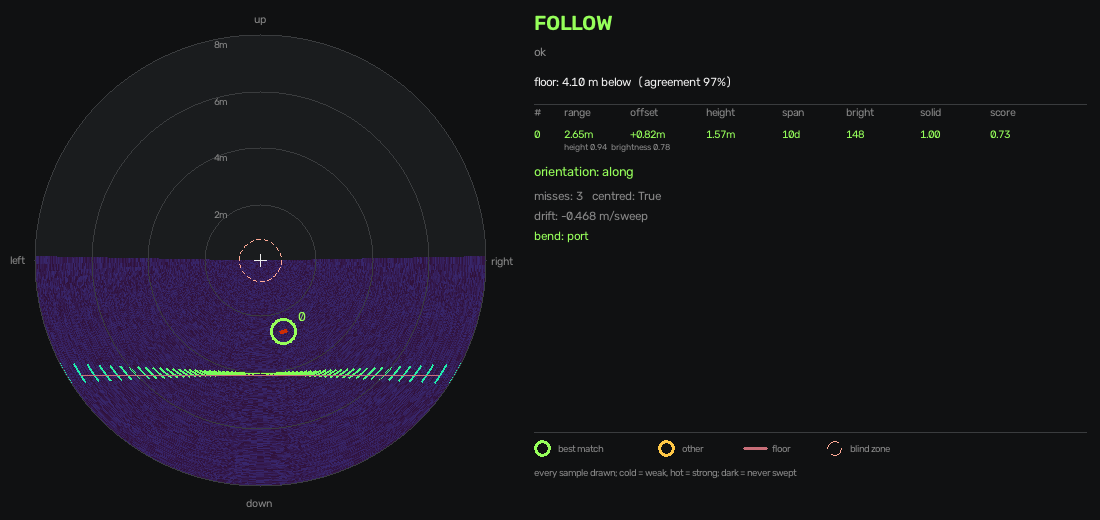
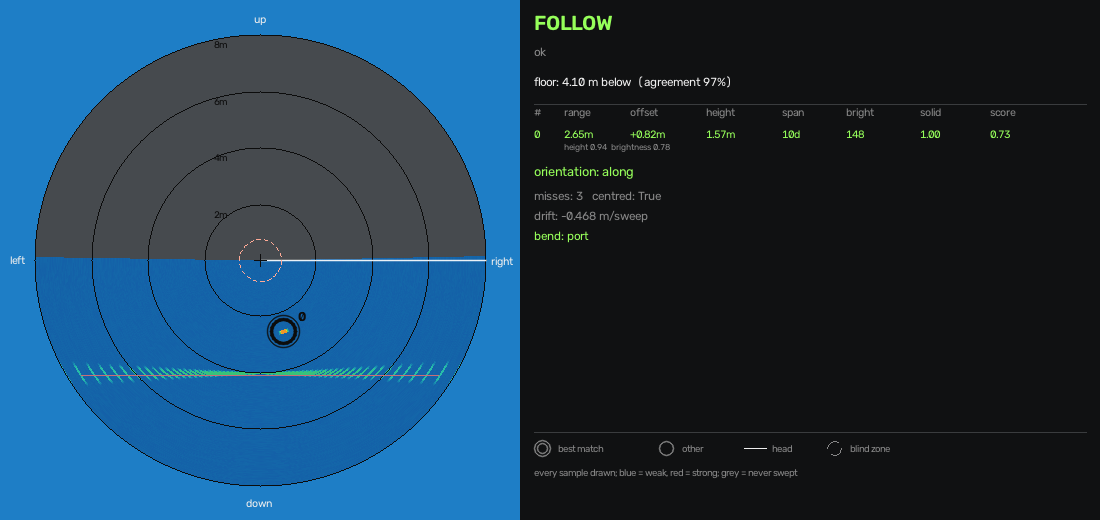
Viewer: Ping Viewer look, live head, smooth interpolation
Four things, all from watching it fail in the pool.

Blocky wedges: each ping was stamped across the polar rows it covered, giving
hard edges. It is now a linear resize, which blends between neighbouring pings.
That invents nothing - the beam is 2 degrees wide and the step is 2 degrees, so
adjacent pings really do overlap.

Colour: a hand-built ramp, blue through cyan, green, yellow, to dark red, close
to Ping Viewer's. Every stock OpenCV map either starts near black or ends
somewhere that reads as weak. Background is Ping Viewer's blue.

Live head: Sonar.sweep() takes an optional on_ping callback and hands back a real
Sweep of what it has measured so far, so the viewer needs no special case. A full
sweep is 14-24 s on this hardware - the motor dominates - so waiting for the whole
thing looked frozen. A white line marks where the transducer is pointing, and it
sits on the boundary between swept and unswept water.

Annotations are black now. Nothing in the ramp is dark, so a black ring reads as
an annotation; the old bright rings vanished into bright patches.

Unswept water stays grey rather than taking the ramp's cold colour, so a
half-finished sweep cannot be mistaken for a clear one. 25/25 pass.

diff --git a/robotx_graey_2026/api/sonar/viewer.py b/robotx_graey_2026/api/sonar/viewer.py
@@ -30,7 +30,7 @@ from . import detect as D
 from . import settings as S
 
 BG = (18, 17, 16)
-FACE = (30, 28, 26)
+FACE = (78, 74, 70)         # unswept water: grey, never a ramp colour
 INK = (238, 238, 238)
 DIM = (135, 135, 135)
 GRID = (62, 60, 58)
@@ -39,16 +39,32 @@ BEST = (90, 255, 150)
 BLIND = (150, 170, 255)
 FLOORC = (120, 110, 200)
 
-# TURBO runs blue -> cyan -> green -> yellow -> red, which is close to what Ping
-# Viewer uses. INFERNO was the old choice and its low end is near-black, so a
-# weak return was indistinguishable from water and everything legible came out
-# orange.
-_LUT = cv2.applyColorMap(np.arange(256, dtype=np.uint8).reshape(-1, 1),
-                         cv2.COLORMAP_TURBO).reshape(-1, 3)
+SKY = (198, 126, 30)        # BGR. Ping Viewer's background blue.
+MARK = (12, 12, 12)         # near-black, for rings and detection circles
+
+# Ping Viewer's own ramp, near enough: mid blue for water, then cyan, green,
+# yellow, orange, dark red for the hardest returns. Built by hand rather than
+# taken from an OpenCV map because every stock map either starts near black
+# (INFERNO, TURBO) or ends somewhere that reads as "weak" on a bright field.
+_STOPS = [(0, (168, 96, 20)), (40, (176, 140, 24)), (90, (168, 190, 40)),
+          (140, (80, 200, 70)), (190, (60, 232, 226)), (225, (40, 150, 240)),
+          (255, (30, 30, 190))]
+
+
+def _ramp():
+    lut = np.zeros((256, 3), np.uint8)
+    for (v0, c0), (v1, c1) in zip(_STOPS, _STOPS[1:]):
+        n = v1 - v0
+        for ch in range(3):
+            lut[v0:v1 + 1, ch] = np.linspace(c0[ch], c1[ch], n + 1)
+    return lut
+
+
+_LUT = _ramp()
 
 # Rows in the polar buffer before warping. 1440 is a quarter degree per row,
-# which is finer than the 2 degree beam step, so the warp never has to invent
-# detail the sonar did not measure.
+# so a 2 degree beam step spans 8 rows and the warp has room to blend between
+# pings instead of stamping hard wedges.
 _POLAR_ROWS = 1440
 
 
@@ -64,7 +80,7 @@ def _to_screen(centre, angle_deg, r_px):
 
 
 def _radar(p, size):
-    canvas = np.full((size, size, 3), BG, dtype=np.uint8)
+    canvas = np.full((size, size, 3), SKY, dtype=np.uint8)
     c, margin = size // 2, 34
     sweep = p.sweep
     if sweep is None or sweep.image.size == 0:
@@ -73,6 +89,9 @@ def _radar(p, size):
     max_range = sweep.col_to_range_m(sweep.image.shape[1])
     radius = int(size / 2 - margin)
     ppm = radius / max_range
+    # Deliberately NOT the cold end of the ramp. Water the head has not reached
+    # yet has to look different from water it swept and found empty, or a
+    # half-finished sweep is indistinguishable from a clear picture.
     cv2.circle(canvas, (c, c), radius, FACE, -1)
 
     _paint_returns(canvas, sweep, c, radius)
@@ -81,17 +100,23 @@ def _radar(p, size):
     ring = 1.0 if max_range <= 6 else 2.0
     r = ring
     while r <= max_range + 1e-6:
-        cv2.circle(canvas, (c, c), int(r * ppm), GRID, 1)
+        cv2.circle(canvas, (c, c), int(r * ppm), MARK, 1)
         # just inside the ring and left of centre, clear of the "up" marker
         cv2.putText(canvas, f"{r:.0f}m", (c - 46, c - int(r * ppm) + 14),
-                    cv2.FONT_HERSHEY_SIMPLEX, 0.34, DIM, 1, cv2.LINE_AA)
+                    cv2.FONT_HERSHEY_SIMPLEX, 0.34, MARK, 1, cv2.LINE_AA)
         r += ring
 
     for ang, txt in ((0, "right"), (90, "up"), (180, "left"), (270, "down")):
         x, y = _to_screen(c, ang, size / 2 - margin + 16)
         (tw, th), _ = cv2.getTextSize(txt, cv2.FONT_HERSHEY_SIMPLEX, 0.36, 1)
         cv2.putText(canvas, txt, (x - tw // 2, y + th // 2),
-                    cv2.FONT_HERSHEY_SIMPLEX, 0.36, DIM, 1, cv2.LINE_AA)
+                    cv2.FONT_HERSHEY_SIMPLEX, 0.36, INK, 1, cv2.LINE_AA)
+
+    # Where the transducer is pointing right now. On a partial sweep this is the
+    # live edge, so it sits at the boundary between painted and unpainted water
+    # and shows the head moving.
+    hx, hy = _to_screen(c, sweep.angles_deg[-1], radius)
+    cv2.line(canvas, (c, c), (hx, hy), (255, 255, 255), 1, cv2.LINE_AA)
 
     # the detected floor, drawn as the arc it was measured at
     if p.floor is not None:
@@ -107,15 +132,19 @@ def _radar(p, size):
     # blind zone
     _dashed_circle(canvas, (c, c), int(S.MIN_RANGE_M * ppm), BLIND)
 
+    # Black on the colour ramp. Nothing in the ramp is dark, so a black ring
+    # reads as an annotation rather than as another return - which a bright ring
+    # did not, when it sat on top of a bright patch.
     for i, d in enumerate(p.candidates):
-        colour = BEST if d is p.best else HIT
         x, y = _to_screen(c, d.angle_deg, d.range_m * ppm)
-        cv2.circle(canvas, (x, y), 12, colour, 2)
+        cv2.circle(canvas, (x, y), 12, MARK, 2, cv2.LINE_AA)
+        if d is p.best:
+            cv2.circle(canvas, (x, y), 16, MARK, 1, cv2.LINE_AA)
         cv2.putText(canvas, str(i), (x + 15, y - 10),
-                    cv2.FONT_HERSHEY_SIMPLEX, 0.45, colour, 1, cv2.LINE_AA)
+                    cv2.FONT_HERSHEY_SIMPLEX, 0.45, MARK, 2, cv2.LINE_AA)
 
-    cv2.line(canvas, (c, c - 6), (c, c + 6), INK, 1)
-    cv2.line(canvas, (c - 6, c), (c + 6, c), INK, 1)
+    cv2.line(canvas, (c, c - 6), (c, c + 6), MARK, 1)
+    cv2.line(canvas, (c - 6, c), (c + 6, c), MARK, 1)
     return canvas
 
 
@@ -126,26 +155,40 @@ def _paint_returns(canvas, sweep, centre, radius):
     range bins - so the only work is resampling it onto a full circle at a fixed
     angular pitch and handing it to OpenCV.
 
+    The resample is a LINEAR resize rather than stamping each ping across the
+    rows it covers. Stamping gives hard-edged wedges, which is what made the
+    display look blocky; resizing blends between neighbouring pings the way Ping
+    Viewer does. It invents nothing the beam did not already smear together - the
+    beam is 2 degrees wide and the step is 2 degrees, so adjacent pings genuinely
+    do overlap.
+
     OpenCV measures its polar angle clockwise from the +x axis, because image y
-    runs downward. Our angles run anticlockwise from the same axis, so the row
-    index is computed from -angle. Getting this backwards mirrors the picture,
-    which is easy to miss on a symmetric scene, so there is a check for it in
-    sonar_check.py.
+    runs downward. Our angles run anticlockwise from the same axis, so the rows
+    are laid down against -angle. Getting this backwards mirrors the picture,
+    which is easy to miss on a symmetric scene, so sonar_check.py pins it down.
     """
     n_bins = sweep.image.shape[1]
+    angs = np.asarray(sweep.angles_deg, dtype=float)
+    step = sweep.step_deg
+    half = step / 2.0
+
+    # How much of the circle this sweep covers, unwrapped so an arc crossing 360
+    # stays monotonic.
+    span = float((angs[-1] - angs[0]) % 360.0) if len(angs) > 1 else 0.0
+    arc = span + step
+    rows = max(2, int(round(arc / 360.0 * _POLAR_ROWS)))
+
+    strip = cv2.resize(sweep.image, (n_bins, rows), interpolation=cv2.INTER_LINEAR)
+    # Index 0 of the flipped strip is the HIGHEST angle, which is the LOWEST row
+    # once angles are negated.
+    strip = np.flipud(strip)
+    start = int(round(((-(angs[0] + span + half)) % 360.0) * _POLAR_ROWS / 360.0))
+    idx = (np.arange(rows) + start) % _POLAR_ROWS
+
     polar = np.zeros((_POLAR_ROWS, n_bins), dtype=np.uint8)
     swept = np.zeros(_POLAR_ROWS, dtype=bool)
-
-    # Paint the whole wedge each ping covers, not a single row. A 2 degree step
-    # spans 8 rows here, and filling only one would leave unmeasured gaps that
-    # look like structure.
-    half = max(sweep.step_deg, S.BEAM_IN_PLANE_DEG) / 2.0
-    for row, ang in enumerate(sweep.angles_deg):
-        lo = int(math.floor((-ang - half) * _POLAR_ROWS / 360.0))
-        hi = int(math.ceil((-ang + half) * _POLAR_ROWS / 360.0))
-        idx = np.arange(lo, hi + 1) % _POLAR_ROWS
-        polar[idx] = sweep.image[row]
-        swept[idx] = True
+    polar[idx] = strip
+    swept[idx] = True
 
     flags = cv2.WARP_INVERSE_MAP + cv2.WARP_POLAR_LINEAR
     side = 2 * radius
@@ -242,19 +285,22 @@ def _panel(p, memory, state, width, height):
 
 
 def _legend(panel, x, y, width):
+    """Annotations are black on the radar. They are drawn light here because
+    this panel is dark - what matters is the shape, not the colour."""
     cv2.line(panel, (14, y - 14), (width - 14, y - 14), GRID, 1)
-    cv2.circle(panel, (x + 8, y + 2), 7, BEST, 2)
+    cv2.circle(panel, (x + 8, y + 2), 5, DIM, 1, cv2.LINE_AA)
+    cv2.circle(panel, (x + 8, y + 2), 8, DIM, 1, cv2.LINE_AA)
     cv2.putText(panel, "best match", (x + 24, y + 6), cv2.FONT_HERSHEY_SIMPLEX,
                 0.34, DIM, 1, cv2.LINE_AA)
-    cv2.circle(panel, (x + 132, y + 2), 7, HIT, 2)
+    cv2.circle(panel, (x + 132, y + 2), 7, DIM, 1, cv2.LINE_AA)
     cv2.putText(panel, "other", (x + 148, y + 6), cv2.FONT_HERSHEY_SIMPLEX,
                 0.34, DIM, 1, cv2.LINE_AA)
-    cv2.line(panel, (x + 210, y + 2), (x + 232, y + 2), FLOORC, 2)
-    cv2.putText(panel, "floor", (x + 238, y + 6), cv2.FONT_HERSHEY_SIMPLEX,
+    cv2.line(panel, (x + 210, y + 2), (x + 232, y + 2), INK, 1)
+    cv2.putText(panel, "head", (x + 238, y + 6), cv2.FONT_HERSHEY_SIMPLEX,
                 0.34, DIM, 1, cv2.LINE_AA)
-    cv2.ellipse(panel, (x + 300, y + 2), (7, 7), 0, 0, 120, BLIND, 1)
-    cv2.ellipse(panel, (x + 300, y + 2), (7, 7), 0, 180, 300, BLIND, 1)
+    cv2.ellipse(panel, (x + 300, y + 2), (7, 7), 0, 0, 120, DIM, 1)
+    cv2.ellipse(panel, (x + 300, y + 2), (7, 7), 0, 180, 300, DIM, 1)
     cv2.putText(panel, "blind zone", (x + 316, y + 6), cv2.FONT_HERSHEY_SIMPLEX,
                 0.34, DIM, 1, cv2.LINE_AA)
-    cv2.putText(panel, "every sample drawn; cold = weak, hot = strong; dark = never swept",
+    cv2.putText(panel, "every sample drawn; blue = weak, red = strong; grey = never swept",
                 (x, y + 30), cv2.FONT_HERSHEY_SIMPLEX, 0.32, DIM, 1, cv2.LINE_AA)

diff --git a/robotx_graey_2026/api/sonar/sweep.py b/robotx_graey_2026/api/sonar/sweep.py
@@ -121,11 +121,18 @@ class Sonar:
         self.metres_per_bin = max_range_m / n
         self._configured_range = max_range_m
 
-    def sweep(self, start_deg, end_deg, step_deg, max_range_m, heading_deg=None):
+    def sweep(self, start_deg, end_deg, step_deg, max_range_m, heading_deg=None,
+              on_ping=None):
         """Sweep an arc of the scan plane and return a Sweep.
 
         Angles are in our convention; they get converted to gradians here so
         nothing downstream ever has to think about the hardware's units.
+
+        on_ping(partial) is called as the head moves, with a Sweep holding only
+        what has been measured so far. A full sweep takes many seconds - the
+        motor step dominates, not the sound - so a display that waits for the
+        whole thing looks frozen. The partial is a real Sweep, so a viewer needs
+        no special case for it.
         """
         self._configure_range(max_range_m)
 
@@ -146,6 +153,10 @@ class Sonar:
             if len(row) < self.n_samples:
                 row = np.pad(row, (0, self.n_samples - len(row)))
             rows.append(row[: self.n_samples])
+
+            if on_ping is not None:
+                on_ping(Sweep(np.vstack(rows), angles[:len(rows)],
+                              self.metres_per_bin, heading_deg))
 
         image = np.vstack(rows) if rows else np.zeros((0, 1), dtype=np.uint8)
         return Sweep(image, angles, self.metres_per_bin, heading_deg)

diff --git a/tools/sonar_pole_test.py b/tools/sonar_pole_test.py
@@ -112,10 +112,19 @@ def main():
     down_gradian = args.down_gradian
     tuning = {"threshold": args.threshold}
 
+    # A sweep takes many seconds, so publish partial frames while the head is
+    # still moving. Without this the browser shows one frozen picture and you
+    # cannot tell a working sonar from a stalled one.
+    def live(partial):
+        per = perceive(partial, profile=None, tuning=tuning, floor=None,
+                       require_floor=False)
+        webview.publish(render(per, None, state=f"SCANNING  down={down_gradian}"))
+
     while True:
         sonar.down_gradian = down_gradian
         t0 = time.time()
-        sweep = sonar.sweep(args.start, args.end, args.step, args.range)
+        sweep = sonar.sweep(args.start, args.end, args.step, args.range,
+                            on_ping=live if args.web else None)
         floor = Floor.from_known_depth(args.assume_floor) if args.assume_floor else None
 
         # No profile: measure everything, judge nothing. This is discovery mode,
